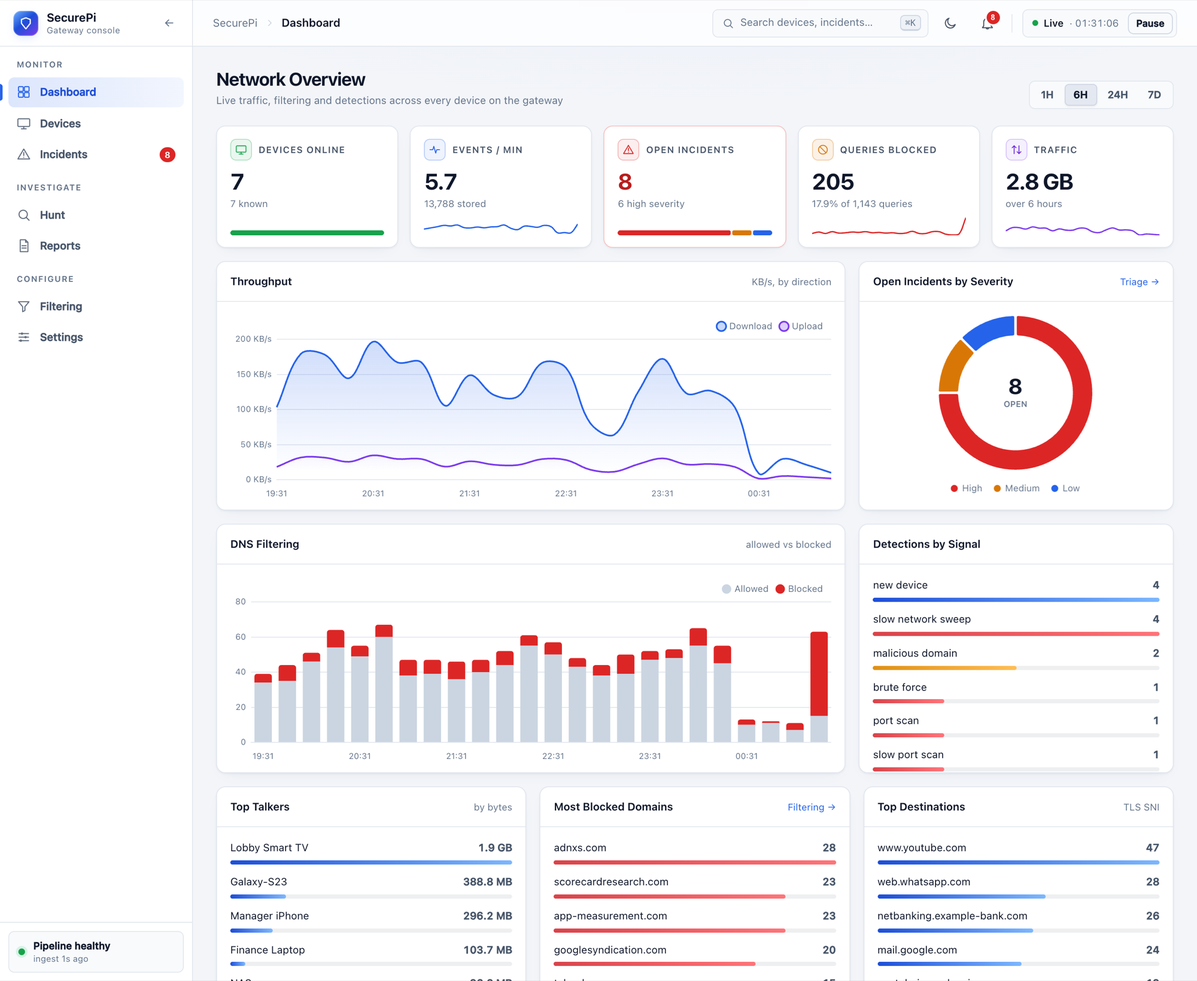
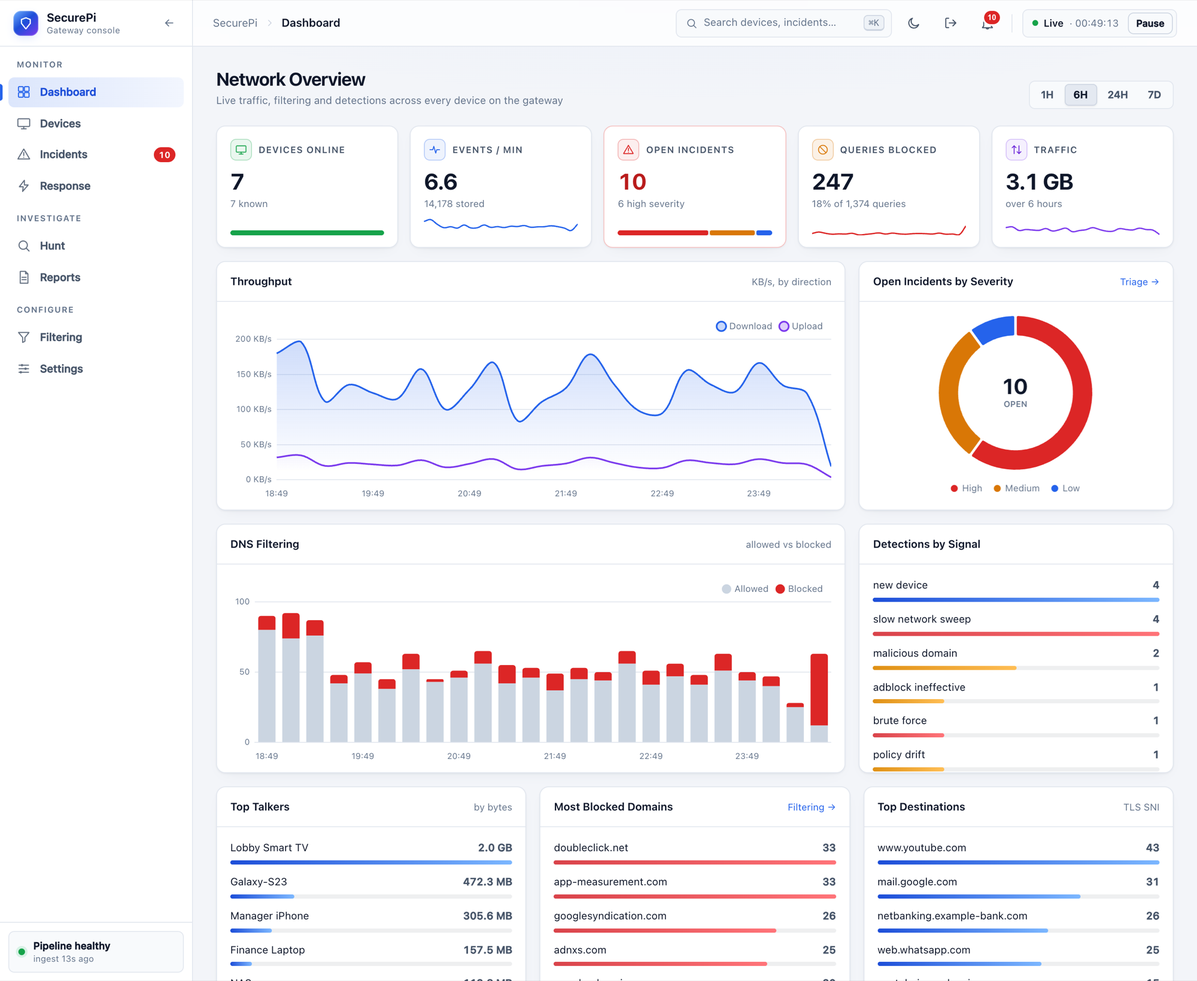
Stage 4 docs: live results, plan tracker, security review, README and screenshots
- EVALUATION-RESULTS-2.md Stage 4: every exit criterion checked live on
  the test harness, four real bugs found, and the DHCP-renewal check that
  still needs a real device on ap0.
- ENHANCEMENT-PLAN.md: 4.1-4.5 marked done, cut line B reached.
- SECURITY-REVIEW.md section 8: new helper verbs, stored channel secrets,
  outbound notifications, the lock, lockout safety - and world-readable
  database backups found and fixed (now 600).
- README: Stages 3 and 4 complete, 362 tests, Response page screenshot,
  all screenshots regenerated; shoot.js signs in through the login form.
- NEXT-SESSION.md: what Stage 4 added, the pending real-device check,
  Stage 7 next.

diff --git a/docs/demo/shoot.js b/docs/demo/shoot.js
@@ -17,7 +17,8 @@ const PAGES = [
   { name: 'dashboard', path: '/', wait: 3500, h: 1180 },
   { name: 'device-detail', path: '/devices/3', wait: 3500, h: 1000 },
   { name: 'incidents', path: '/incidents', wait: 2500, h: 760 },
-  { name: 'incident-detail', path: '/incidents/7', wait: 2500, h: 1000 },
+  { name: 'incident-detail', path: '/incidents/13', wait: 2500, h: 1000 },
+  { name: 'response', path: '/response', wait: 3000, h: 1120 },
   { name: 'filtering', path: '/filtering', wait: 3500, h: 900 },
   { name: 'settings', path: '/settings', wait: 2500, h: 700 },
   { name: 'mobile', path: '/', wait: 3500, mobile: true },
@@ -30,13 +31,19 @@ const PAGES = [
     headless: 'new',
     args: ['--hide-scrollbars', '--no-first-run', '--disable-features=BraveRewards'],
   });
+  // Sign in once through the real login form (step 3.1 replaced Basic
+  // Auth with a session cookie); every page below shares the session.
+  const login = await browser.newPage();
+  await login.goto(BASE + '/login', { waitUntil: 'networkidle0' });
+  await login.type('input[name=password]', 'demo');
+  await Promise.all([login.waitForNavigation({ waitUntil: 'networkidle0' }), login.click('button[type=submit]')]);
+  await login.close();
   for (const p of PAGES) {
     if (only.length && !only.includes(p.name)) continue;
     const page = await browser.newPage();
     // The console remembers its theme in localStorage, which every page in
     // this browser shares - so set it explicitly for each capture.
     await page.evaluateOnNewDocument(t => { try { localStorage.setItem('sp.theme', t); } catch (e) {} }, p.theme || 'dark');
-    await page.authenticate({ username: 'securepi', password: 'demo' });
     if (p.mobile) await page.setViewport({ width: 390, height: 844, deviceScaleFactor: 2, isMobile: true });
     else await page.setViewport({ width: 1440, height: p.h || 960, deviceScaleFactor: 2 });
     page.on('pageerror', e => console.log(p.name, 'PAGEERROR', e.message));

diff --git a/EVALUATION-RESULTS-2.md b/EVALUATION-RESULTS-2.md
@@ -559,3 +559,78 @@ A `dns_failopen_state` table (one row, `active`/`down_since`/`changed_at`) is th
 | Journal, `securepi-ingest`/`securepi-web`/`AdGuardHome`, across the whole test | Clean - only expected `AdGuard API unreachable ... falling back to file tailing` messages from `app/adguard.py`'s own pre-existing graceful-degradation path while AdGuard was deliberately down, no tracebacks |
 
 **Not fully verified, named rather than implied:** the redirect rule's effect on an actual `ap0`-connected client's DNS query was not tested with a real Wi-Fi device - `securepi status` showed 0 clients connected this session, and the project's own test harness (`ns_attacker`/`ns_victim`) is deliberately built on a separate `br-test` bridge, "entirely separate from the production ap0/hostapd network" (its own setup script's words), so it cannot generate `ap0`-sourced traffic to test this specific path. Rather than risk attaching a virtual interface to the live, production Wi-Fi AP interface to simulate one - a state-changing experiment on the one interface actual devices depend on, for a rule whose match criteria were independently confirmed correct by direct inspection - this was left as a real gap: the detection, activation, deactivation, incident, and console-banner machinery are all live-verified end to end; the very last hop (a real phone's DNS query actually being answered by 1.1.1.1 instead of timing out) is not. Confirmed instead, as strong indirect evidence: the rule's match/target syntax is byte-for-byte what a manual read of `nft`'s own documentation and the existing, already-proven `dpi-redirect` rule's shape would predict, and the two conditions (`daddr != 10.10.0.1` for the existing rules, `daddr 10.10.0.1` for this one) cannot both match the same packet.
+
+---
+
+## Stage 4
+
+Response and policy orchestration, built and verified 25–26 September 2026. Every check below ran on the live gateway against the test harness's `[TEST HARNESS] test-victim` device (id 5, MAC `02:00:00:00:00:12`, IP `10.10.0.221`), never a real person's device. The console's password is a one-way hash since step 3.1, so instead of signing in over HTTP these checks ran the real orchestrator code on the gateway **as the unprivileged `securepi-web` user** - the console's own privileges and code path, minus only the HTTP layer. That layer, and every new console page, was exercised end to end in a headless browser against the demo console (`docs/demo/serve.py`) instead: quarantine through the dialog, adding a webhook channel and sending a signed test, the profile editor, the Response page, dark and light themes, and phone width. No page errors.
+
+`make test`: **362** passing (was 303) - `tests/test_orchestrator.py` (39), `tests/test_notify.py` (14), six new helper-verb tests, plus the flaky-test fix below.
+
+### Four real bugs found, none guessed
+
+1. **AdGuard does not ignore a trailing `# comment` on a rule line.** Steps 5.2 and 5.5 stored a temporary allow's expiry and a vendor list's tag as `  # securepi-expires:…` / `  # securepi-tag:…` after the rule, on the assumption that AdGuard ignores it. Checked live with `check_host` on four rule shapes: every rule with the comment matched **nothing**, the same rules without it matched. So every temporary "unbreak" and every vendor-telemetry block applied since those steps was stored but never enforced. There were none live at the time. The orchestrator now writes plain rules and remembers which are its own in `orchestrator_state`. `migrate_legacy_rules()` converts any old commented line into a real policy and removes the broken line. The quoted form `$client='[TEST HARNESS] test-victim'` was confirmed to match (victim blocked, another client not).
+2. **Step 2.2's firewall change was never made permanent.** The live forward chain had no `log prefix` on the three DNS-bypass reject rules, and `/etc/nftables.conf` (what `nftables.service` loads at boot) was dated 13 September - the pre-2.2 file. Step 2.2 had copied the new file to `/opt/securepi/nftables.conf` and loaded it with `nft -f`, but never installed it at `/etc`, so the reboots on 20, 21 and 25 September each put the old rules back. From then on the nftables half of `dns_bypass` detection was silently off (the DoH-set refresh kept working - 709 entries). Fixed in the same install as step 4.2's new sets: the repo file is now both `/etc/nftables.conf` and `/opt/securepi/nftables.conf`, and they're identical.
+3. **A per-device pause didn't pause everything.** AdGuard's per-client `filtering_enabled=false` switches off blocklist matching only: with it off, a Kids device still had TikTok blocked (`FilteredBlockedService`) and Google rewritten (`FilteredSafeSearch`), while `doubleclick.net` resolved. A pause now clears the device's blocked services and safe search as well, and restores the whole profile when it ends.
+4. **Journal flooding from read-back.** The orchestrator reads three nftables sets every 15-second cycle through the helper, and each read went through `sudo` (a PAM session opened and closed) and wrote a helper log line - about 24 journal lines every 30 seconds. The engine already runs as root, so it now calls the helper directly, and the helper no longer logs the read-only `*-list` verbs (changes and rejected input are still logged). Measured after: 2 lines in 30 seconds.
+
+A pre-existing test flake was also fixed: four behavioural-baseline tests put their flow 60 s past the top of the hour, which is in the future during the first minute of every hour. The suite happened to run at 19:00:56 UTC, where the positive test failed and the three negative ones passed only because they saw nothing.
+
+### Deploy
+
+Backups first in `/opt/securepi-backups/`: the live ruleset (`nft list ruleset`), `/etc/nftables.conf`, the helper and a full `securepi.db` copy (SQLite online backup). Then `nft -c -f` on the new file, and a **dead-man switch** (`systemd-run --on-active=180` restoring the saved ruleset) before `nft -f /etc/nftables.conf`. The DoH set was refreshed straight after (the reload resets it to its seed). SSH, the console (HTTP 200) and DNS were re-checked from the Mac, then the switch was cancelled. Nothing was enrolled, quarantined or failed-open at the time, so the reload lost no runtime state. Then the helper, then `make deploy` of the expected 21 files, with `.bak-4-<timestamp>` copies of every changed one. Migrations ran on the ingest restart. Every existing device came through as `approved` (13 devices). The engine created `orchestrator.lock` on its first cycle, and that cycle read back all six enforcement points with no errors.
+
+### 4.1 — Policy orchestrator
+
+| Check | Result |
+|---|---|
+| Injected failure: AdGuard accepts a client update but doesn't keep it (Kids profile on the victim) | `PolicyApplyError: read-back did not match what was applied (Device filtering settings (AdGuard)) - rolled back, nothing was changed`. The client object was identical before and after. Policy recorded as `failed` |
+| Injected failure: the firewall accepts a quarantine add but doesn't keep it | Same shape of error for `Quarantine (firewall)`. `quarantine_mac` unchanged, no active quarantine policy left behind |
+| Real apply: block `sp-drift-test.example` for the victim only | Rule `\|\|sp-drift-test.example^$client='[TEST HARNESS] test-victim'` in AdGuard; `check_host` from the victim → `FilteredBlackList`, from another client → `NotFilteredNotFound` |
+| Out-of-band change: that rule deleted directly through AdGuard's own API | Restored within 1 s (the engine's next cycle happened to land right away). Audit row `policy.drift_corrected` - "1 rule(s) removed or edited in AdGuard: …". Platform incident #201 "A response policy was changed outside the console" |
+
+### 4.2 — Response actions
+
+| Check | Result |
+|---|---|
+| The new rules loaded | `iifname "ap0" ether saddr @quarantine_mac … drop` and `iifname "ap0" ip daddr @blocked_ip … drop` accepted by the kernel in the `inet` forward chain |
+| New helper verbs as `securepi-web` | Add/list/delete round trips for both sets. `quarantine-mac-add "…; flush ruleset"` → `REJECTED`, logged. Old verbs unaffected |
+| Timed quarantine (120 s) + block IP (120 s) | Kernel held both with 178 s left (policy + the 60 s backstop margin). Both policies `expired` by the orchestrator **11 s** after their time, both sets empty |
+| Auto-response on a synthetic scan → brute force → beacon chain on the victim | The real engine built campaign #3 "Discovery -> Credential Access -> Command and Control"; the orchestrator created `auto:campaign:3` (5 min, by `auto-response`) and raised incident "…test-victim was quarantined automatically". The kernel entry was extended to the longer of the two overlapping quarantines. The synthetic incidents and campaign were deleted afterwards, as in 2.8 |
+
+**Not verified live, named rather than implied:** "survives a DHCP renewal" needs a real device whose traffic arrives on `ap0` - the harness namespaces sit on `br-test`, which never touches the `iifname "ap0"` rules (the same limitation 3.6 and 5.7 record). No device was connected to SecurePi-Test this session. What *is* established: quarantine is keyed on MAC, the orchestrator follows a device's new MACs (unit-tested), and a new IP changes nothing about the set (unit-tested). Still to run: connect a phone, quarantine it for 15 min, force a renewal (toggle Wi-Fi), and confirm the `quarantined-mac` rule's counter rises and the phone stays offline until expiry.
+
+### 4.3 — Filtering profiles
+
+Kids on the victim, with its schedule edited for the test to block `group:gaming` from 00:38 (two minutes ahead):
+
+| Check | Result |
+|---|---|
+| Read back after apply | `filtering_enabled` true, safe search on, 13 blocked services, `steam` not yet among them |
+| `check_host` from the victim before the window | `amemv.com` (TikTok, always) → `FilteredBlockedService`; `www.google.com` → `FilteredSafeSearch`; `dota2.wmsj.cn` (a Steam service domain) → `NotFilteredNotFound` |
+| Window opens at 00:38:00 | `dota2.wmsj.cn` → `FilteredBlockedService` at **00:38:01**. Recorded as a planned change, not drift |
+| Pause for 60 s (after bug 3's fix) | During: all three domains `NotFilteredNotFound`. After: back to `FilteredBlackList` / `FilteredBlockedService` / `FilteredSafeSearch`, policy `expired` 13 s after its time |
+| Clean-up | Kids reset to its defaults; the victim's client back to standard (filtering on, no services, no safe search); AdGuard's custom rules back to the original three `$dnsrewrite` lines |
+
+### 4.4 — Device trust
+
+| Check | Result |
+|---|---|
+| Restrict unknown devices on; the registry creates a new device (synthetic harness MAC `02:00:00:00:4e:01`) | Created as `unknown` at 00:43:40 |
+| Restricted | MAC in `quarantine_mac` at 00:43:44 - within one engine cycle - by policy `source=trust`, "unknown device - restricted until approved" |
+| Approved | Out of the set on the same call; policy `removed`, "trust is now approved" |
+
+The device was kept, renamed `[TEST HARNESS] live 4.4 new device`, the same way step 6's evaluation devices were. "Restrict unknown devices" was switched back off.
+
+### 4.5 — Notifications
+
+A webhook channel on the gateway pointed at a small listener on the Mac (`192.168.2.1`, over the management cable - nothing sent to a third-party service).
+
+| Check | Result |
+|---|---|
+| Send test | Received, `X-SecurePi-Signature` HMAC-SHA256 verified against the body. The API showed the secret only as `••••-key` |
+| Three harness port scans 20 s apart | Incident #206 (port scan) grew to 80 events over several cycles and #207 (slow port scan) was raised. The Mac received **exactly two** webhooks, one per incident. `notifications` held one `sent` row each |
+| Clean-up | Channel removed (the listener was temporary); #201, #206, #207 resolved with a note |
+
+Telegram and SMTP were not sent live (no accounts were set up for this). Their exact requests are unit-tested (`RequestShapeTests`), and they share the same dispatch path the webhook check proved.

diff --git a/README.md b/README.md
@@ -11,7 +11,7 @@ Built as a final-year engineering project, deployed on real hardware, and measur
 
 ![Python](https://img.shields.io/badge/Python-3.12-3776AB?style=for-the-badge&logo=python&logoColor=white) ![FastAPI](https://img.shields.io/badge/FastAPI-console-009688?style=for-the-badge&logo=fastapi&logoColor=white) ![Suricata](https://img.shields.io/badge/Suricata-IDS-EF3B2D?style=for-the-badge) ![AdGuard Home](https://img.shields.io/badge/AdGuard_Home-DNS-68BC71?style=for-the-badge&logo=adguard&logoColor=white) ![mitmproxy](https://img.shields.io/badge/mitmproxy-selective_DPI-2B6CB0?style=for-the-badge) ![Ubuntu](https://img.shields.io/badge/Ubuntu-24.04_LTS-E95420?style=for-the-badge&logo=ubuntu&logoColor=white)
 
-![Tests](https://img.shields.io/badge/tests-206_passing-2fbf71?style=flat-square) ![Detection signals](https://img.shields.io/badge/detection_signals-14-4f9cf9?style=flat-square) ![ATT&CK](https://img.shields.io/badge/MITRE_ATT%26CK-mapped-7b5cf0?style=flat-square) ![Stages complete](https://img.shields.io/badge/roadmap-stages_0%C2%B71%C2%B72%C2%B75%C2%B76_complete-2fbf71?style=flat-square) ![No Docker](https://img.shields.io/badge/footprint-3.6_GiB_RAM,_no_Docker-8d99ad?style=flat-square)
+![Tests](https://img.shields.io/badge/tests-362_passing-2fbf71?style=flat-square) ![Detection signals](https://img.shields.io/badge/detection_signals-14-4f9cf9?style=flat-square) ![ATT&CK](https://img.shields.io/badge/MITRE_ATT%26CK-mapped-7b5cf0?style=flat-square) ![Stages complete](https://img.shields.io/badge/roadmap-stages_0%E2%80%936_complete-2fbf71?style=flat-square) ![No Docker](https://img.shields.io/badge/footprint-3.6_GiB_RAM,_no_Docker-8d99ad?style=flat-square)
 
 <br>
 
@@ -51,9 +51,10 @@ ATT&CK kill chain, so **15,884 raw events became 10 incidents** over a real
 
 ### Respond
 A **security operations console** with a live dashboard, an incident workbench
-(evidence chain, ATT&CK tags, playbooks, notes), threat hunting, per-device policy,
-one-click **quarantine**, explainable risk scores, a weekly PDF report and a full
-audit trail.
+(evidence chain, ATT&CK tags, playbooks, notes), threat hunting, timed **MAC-keyed
+quarantine**, IP and domain blocks from an incident, filtering profiles and schedules,
+device trust, notifications, and a **policy orchestrator** that verifies every change
+and puts back anything altered outside the console.
 
 </td>
 </tr>
@@ -75,7 +76,7 @@ audit trail.
 | **DNS rules enforced** | **656,735** across 5 curated lists | Live AdGuard Home |
 | **Memory under attack load** | **40%** of 3.6 GiB used, over 2 GiB free | [Evaluation §5](EVALUATION-RESULTS.md) |
 | **Throughput headroom** | Limited by the WAN (~30 Mbps). The inspection path itself ran at **39.9 Gbps** on virtual links | [Evaluation §6](EVALUATION-RESULTS.md) |
-| **Automated tests** | **206** unit tests (`make test`), all on synthetic data | [`tests/`](tests) |
+| **Automated tests** | **362** unit tests (`make test`), all on synthetic data | [`tests/`](tests) |
 
 ---
 
@@ -93,11 +94,16 @@ audit trail.
   <br><sub><b>Network overview</b>: KPI tiles with sparklines and meters, throughput, DNS allowed vs blocked, a severity donut, detections by signal, top talkers, blocked and contacted domains, live event stream, weekly activity heatmap and pipeline health.</sub>
 </p>
 
+<p align="center">
+  <img src="docs/assets/screenshots/response.png" alt="Response page" width="100%">
+</p>
+<p align="center"><sub><b>Response</b>: every policy the gateway is enforcing (quarantines, blocks, allows, profiles, pauses, inspection), where each came from, when it ends and when it was last read back from nftables or AdGuard. Beside it: the health of each enforcement point, the orchestrator's own activity (drift repaired, rollbacks, expiries), auto-response and device trust.</sub></p>
+
 <table>
 <tr>
 <td width="50%" valign="top">
 <img src="docs/assets/screenshots/incident-detail.png" alt="Incident workbench">
-<p align="center"><sub><b>Incident workbench</b>: a summary header with severity, status, MITRE ATT&CK tag and one-click triage and quarantine, then what was detected and why, a three-step playbook, related incidents and the evidence chain.</sub></p>
+<p align="center"><sub><b>Incident workbench</b>: a summary header with severity, status, MITRE ATT&CK tag and one-click triage and timed quarantine, then what was detected and why, a Respond card that blocks the domains and addresses in the evidence for one device or everyone, a three-step playbook and the evidence chain.</sub></p>
 </td>
 <td width="50%" valign="top">
 <img src="docs/assets/screenshots/incidents.png" alt="Incident queue">
@@ -107,7 +113,7 @@ audit trail.
 <tr>
 <td width="50%" valign="top">
 <img src="docs/assets/screenshots/device-detail.png" alt="Device detail">
-<p align="center"><sub><b>Device profile</b>: traffic history, identity kept across MAC randomization, fingerprint (type, vendor, OS and confidence), behavioural baseline, risk score, and a Controls panel for filtering, quarantine and Tier 2 enrollment.</sub></p>
+<p align="center"><sub><b>Device profile</b>: traffic history, identity kept across MAC randomization, fingerprint (type, vendor, OS and confidence), behavioural baseline, risk score, and Controls for trust, timed quarantine, filtering profile and pause, and Tier 2 enrollment, plus every policy active on the device.</sub></p>
 </td>
 <td width="50%" valign="top">
 <img src="docs/assets/screenshots/filtering.png" alt="Filtering">
@@ -326,7 +332,7 @@ sequenceDiagram
     end
     rect rgb(46, 17, 21)
     O->>D: review evidence chain + T1110 playbook
-    O->>N: Quarantine (add IP to set)
+    O->>N: Quarantine (add MAC to set, verified)
     N-->>A: forward chain drops all traffic
     O->>D: status investigating, note, audit_log
     end
@@ -599,7 +605,7 @@ devices on the network**. Full method and raw figures: [`EVALUATION-RESULTS.md`]
 > - **A real bug found during evaluation:** `new_device_signal` used a persisted watermark that meant new devices were almost never detected. It was fixed, verified live, and is now covered by regression tests.
 > - **\*Malicious-domain latency** was originally limited by AdGuard only flushing its on-disk query log every 1,000 queries. Ingest now polls AdGuard's API in real time instead (step 1.4).
 > - **One false positive** on a real phone: ordinary ad-SDK background traffic crossed a *raw-count* threshold. The signal now counts **distinct** domains (step 1.6).
-> - **Quarantine is keyed on IP**, so a DHCP renewal can move a quarantined device to a new address. Matching on MAC in PREROUTING is future work, noted in [`app/quarantine.py`](app/quarantine.py).
+> - **Two earlier features had silently stopped working, found while building Stage 4:** AdGuard does not ignore a trailing `# comment` on a rule line, so step 5.2's temporary allows and 5.5's vendor-telemetry rules never matched; and step 2.2's firewall change was never saved as the boot-time `/etc/nftables.conf`, so reboots dropped the DNS-bypass logging. Both fixed and verified live ([Evaluation 2 §Stage 4](EVALUATION-RESULTS-2.md)).
 
 ---
 
@@ -613,8 +619,8 @@ is in [`ENHANCEMENT-PLAN.md`](ENHANCEMENT-PLAN.md).
 | **0** | Housekeeping | ![Complete](https://img.shields.io/badge/-complete-2fbf71?style=flat-square) |
 | **1** | **Foundation and correctness**: test suite, retention, real-time ingest, audit coverage, detection-accuracy fixes, AP client isolation | ![Complete](https://img.shields.io/badge/-complete-2fbf71?style=flat-square) |
 | **2** | **Detection breadth**: network sweep, DNS bypass hardening, IDS alerts, threat intel, DNS tunnelling/DGA, C2 beaconing, suppression rules, campaigns | ![Complete](https://img.shields.io/badge/-complete-2fbf71?style=flat-square) |
-| **3** | Hardening and reliability: session auth, TLS, health supervision | ![Not started](https://img.shields.io/badge/-not_started-5a6679?style=flat-square) |
-| **4** | Response and orchestration: policy profiles, timed quarantine, notifications | ![Not started](https://img.shields.io/badge/-not_started-5a6679?style=flat-square) |
+| **3** | **Hardening and reliability**: session auth, TLS, privilege separation, security review, health supervision, fail-open DNS | ![Complete](https://img.shields.io/badge/-complete-2fbf71?style=flat-square) |
+| **4** | **Response and orchestration**: policy orchestrator with read-back and drift repair, MAC-keyed timed quarantine, IP/domain blocks, auto-response, filtering profiles and schedules, device trust, notifications | ![Complete](https://img.shields.io/badge/-complete-2fbf71?style=flat-square) |
 | **5** | **Ad blocking and privacy filtering**: telemetry, unbreak workflow, analytics, list health, Tier 2 lifecycle, privacy canary, pinning bypass, watchdog | ![Complete](https://img.shields.io/badge/-complete-2fbf71?style=flat-square) |
 | **6** | **Intelligence and console**: baselines, fingerprinting, settings, incident workbench, hunt, weekly report, responsive layout | ![Complete](https://img.shields.io/badge/-complete-2fbf71?style=flat-square) |
 | **7** | Evaluation 2.0: expanded benchmark battery, 7-day continuous run | ![Not started](https://img.shields.io/badge/-not_started-5a6679?style=flat-square) |
@@ -635,13 +641,15 @@ securepi-gateway/
 │   ├── registry.py           Device identity across MAC randomization
 │   ├── correlation.py        The six detection signals + incident dedup
 │   ├── engine.py             15-second loop: signals, rollups, retention
-│   ├── risk.py · playbooks.py · fingerprint.py · quarantine.py · retention.py
+│   ├── orchestrator.py       Desired state → nftables + AdGuard, verified, drift repaired
+│   ├── profiles.py · notify.py   Filtering profiles and schedules · incident notifications
+│   ├── risk.py · playbooks.py · fingerprint.py · firewall_sets.py · retention.py
 │   ├── webapp.py             FastAPI console (pages + JSON API)
 │   ├── schema.sql            The whole data model, with the reasoning in comments
 │   ├── templates/  static/   Jinja2 pages, vanilla JS, one stylesheet
 ├── dpi/                      Selective HTTPS inspection (mitmproxy addon, rules, canary)
 ├── gateway/                  nftables, hostapd, `securepi` CLI, evaluation harness
-├── tests/                    206 unit tests on synthetic fixtures (`make test`)
+├── tests/                    362 unit tests on synthetic fixtures (`make test`)
 └── docs/
     ├── assets/               Banner, social preview, screenshots
     └── demo/                 Synthetic-data console used for the screenshots
@@ -661,7 +669,7 @@ make test        # python3 -m unittest discover -s tests -p 'test_*.py' -v
 ```bash
 cd docs/demo
 python3 seed.py && python3 serve.py
-# open http://127.0.0.1:8765  (user: securepi, password: demo)
+# open http://127.0.0.1:8765  (password: demo)
 ```
 
 See [`docs/demo/README.md`](docs/demo/README.md) for regenerating the screenshots.

diff --git a/ENHANCEMENT-PLAN.md b/ENHANCEMENT-PLAN.md
@@ -317,13 +317,13 @@ New signals follow the `correlation.py` pattern (trailing-window SQL → `raise_
 
 | Step | Work | Origin | Exit criteria | Days |
 |---|---|---|---|---|
-| 4.1 | **Policy orchestrator (lite).** Desired state for quarantine, blocks, filtering profiles, **allow/deny rules and enrollment**. Apply → read back to verify → roll back on mismatch. Drift loop catches out-of-band changes | F§8.3, 15d cut | Injected failure rolls back. A change made directly in AdGuard is detected | 2 |
-| 4.2 | **Response actions:** MAC-keyed and timed quarantine, block domain/IP from an incident, opt-in auto-quarantine for high-confidence campaigns | F§9.4, G5 | Quarantine survives DHCP renewal and expires on its own | 1.5 |
-| 4.3 | **Filtering profiles.** Standard / Kids / IoT-restricted / Strict-privacy / Unrestricted → AdGuard persistent clients: list sets, **blocked services** (TikTok, gaming, social…), safe search, **blocked-services schedules** (e.g. no gaming 22:00–07:00), optional VPN/proxy bypass blocking. **Pause filtering 5/15/60 min** per device or network-wide, with auto-resume | F§9.3, Mkt | Profile assignment verified by read-back. A scheduled service block activates on time. Pause auto-expires | 2 |
-| 4.4 | **Device trust states** (approved / unknown / blocked; opt-in restriction for unknown devices with a lockout-safe fallback) | Mkt | New device restricted until approved | 1 |
-| 4.5 | **Notifications** (ntfy / Telegram / SMTP / webhook, severity threshold, rate limit, quiet hours, digest). Includes "ad-blocking degraded" alerts from Stage 5 once they exist | F§9.4, 15d cut | One notification per incident, not one per cycle | 1 |
+| 4.1 | **Policy orchestrator (lite) — done, 26 September 2026:** `app/orchestrator.py` + a `policies` table. Desired state for quarantine, IP/domain blocks, allow rules, filtering profiles, pauses, **enrollment** and vendor-telemetry lists. Apply → read back → roll back on mismatch; a reconcile every engine cycle expires policies, follows DHCP renewals and reverts drift, telling a reboot apart from drift by the kernel boot id. One cross-process `flock` so the console and engine never race. Enrollment is the deliberate exception: it is never re-added if something else turned it off (privacy canary, reboot, CLI). Found and fixed on the way: AdGuard does **not** ignore a trailing `# comment` on a rule, so 5.2's temporary allows and 5.5's vendor lists had never matched. Full detail: `EVALUATION-RESULTS-2.md` §4.1 | F§8.3, 15d cut | Injected failure rolls back. A change made directly in AdGuard is detected - **both confirmed live: two injected failures (AdGuard and nftables) rolled back with state unchanged; a managed rule deleted through AdGuard's API was restored within one cycle, with an audit row and a platform incident** | 2 |
+| 4.2 | **Response actions — done, 26 September 2026:** quarantine keyed on **MAC** (new `quarantine_mac` set, `ether saddr` in the forward chain) and optionally timed, with a kernel-side timeout one minute past the policy as a backstop; **block IP** (new `blocked_ip` set) and **block domain** from an incident's own evidence; opt-in **auto-quarantine** for campaigns spanning ≥ N tactics (off by default, acts once per campaign, only on campaigns after it's switched on). Six new validated helper verbs. Also found: step 2.2's firewall change had never been installed as `/etc/nftables.conf`, so every reboot since 14 Sep dropped the DNS-bypass log prefixes - fixed in the same install. Full detail: `EVALUATION-RESULTS-2.md` §4.2 | F§9.4, G5 | Quarantine survives DHCP renewal and expires on its own - **expiry confirmed live (ended 11 s after its time, both sets emptied); auto-quarantine confirmed live on a synthetic 3-tactic campaign; the DHCP-renewal half needs a real device on `ap0` - see §4.2** | 1.5 |
+| 4.3 | **Filtering profiles — done, 26 September 2026:** Standard / Kids / IoT restricted / Strict privacy / Unrestricted (`app/profiles.py`), built only from AdGuard's real per-client controls (filtering, safe search, blocked services) plus per-device `$client` rules - AdGuard has no per-client blocklist selection, so "list sets" per profile isn't possible and isn't pretended. Daily **blocked-service schedules** enforced by the orchestrator (AdGuard's own schedule pauses a client's whole services list at once and allows one range per day, so it can't express "TikTok always, games at night" or a daytime window). VPN/proxy bypass blocking is the `privacy` services group. **Pause 5/15/60 min** per device, or network-wide through AdGuard's own timed protection pause. Editable from the Filtering page. Full detail: `EVALUATION-RESULTS-2.md` §4.3 | F§9.3, Mkt | Profile assignment verified by read-back. A scheduled service block activates on time. Pause auto-expires - **all three confirmed live with AdGuard's own `check_host`: the scheduled gaming block started at 00:38:01 for a 00:38 window; the pause (after a live-found fix: `filtering_enabled=false` alone leaves blocked services and safe search on) ended 13 s after its time** | 2 |
+| 4.4 | **Device trust states — done, 26 September 2026:** approved / unknown / blocked on every device (existing devices grandfathered as approved on migration). Blocked = permanent quarantine; unknown = quarantined only while "restrict unknown devices" is on. Lockout-safe: switching it on approves every device already on the network first, and a restricted device keeps DHCP, DNS and the console (the rule only matches forwarded traffic), so it can always be approved from itself. Full detail: `EVALUATION-RESULTS-2.md` §4.4 | Mkt | New device restricted until approved - **confirmed live: a new registry device was restricted in the firewall 4 s after it appeared, and approving it lifted it on the same call** | 1 |
+| 4.5 | **Notifications — done, 26 September 2026:** `app/notify.py` - ntfy, Telegram, SMTP and webhook (HMAC-SHA256 signed); per-channel severity threshold; per-channel hourly rate limit; quiet hours (high still goes out); everything held goes into a digest, never dropped; failed sends retried. Title + severity + device + link by default, description only if a channel opts in. Secrets stored on the gateway, never returned by the API. Stage 5's degraded-ad-blocking alerts are incidents, so they're covered automatically. Full detail: `EVALUATION-RESULTS-2.md` §4.5 | F§9.4, 15d cut | One notification per incident, not one per cycle - **confirmed live: a harness scan extended its incident to 80 events across several cycles and the webhook (gateway → Mac over the management link) received it exactly once, signature verified** | 1 |
 
-> **Cut line B** (~6¼ weeks). Detect → respond loop closed, orchestrated, audited and hardened. Per-device filtering profiles and schedules exist.
+> **Cut line B** (~6¼ weeks) — **reached, 26 September 2026.** Detect → respond loop closed, orchestrated, audited and hardened. Per-device filtering profiles and schedules exist.
 
 ### Stage 5 — Ad blocking and privacy filtering (~10½ days + 1½ optional)
 
@@ -559,7 +559,7 @@ Never cut Stage 2, steps 5.2, 5.3, 5.7, or evaluation items 7.2–7.5.
 | 1 | **1.1 done, 1.2 done, 1.3 done, 1.4 done, 1.5 done, 1.6 done, 1.7 done, 1.8 done** (1.8 out of order - see note below) | Stage 1 complete |
 | 2 | **2.1–2.8 all done** | **Stage 2 complete** |
 | 3 | **3.1–3.6 all done** | **Stage 3 complete** |
-| 4 | 4.1 · 4.2 · 4.3 · 4.4 · 4.5 | Not started |
+| 4 | **4.1–4.5 all done** (4.2's DHCP-renewal check on a real device still to run - see `EVALUATION-RESULTS-2.md` §4.2) | **Stage 4 complete** |
 | 5 | **5.1 done, 5.2 done, 5.3 done, 5.4 done, 5.5 done, 5.6 done, 5.7 done, 5.8 done, 5.9 done, 5.10 done, 5.11 done (Path 1 only)** (out of order) | 5.1–5.11 done - 5.11 scoped to Path 1 (cosmetic CSS), Path 2 (scriptlets) deferred and recorded |
 | 6 | **6.1 done, 6.2 done, 6.3 done, 6.4 done, 6.5 done, 6.6 done, 6.7 done** | Stage 6 complete |
 | 7 | 7.0 – 7.9 | Not started |

diff --git a/NEXT-SESSION.md b/NEXT-SESSION.md
@@ -76,7 +76,7 @@ compact summary. Results from Stage 1 onward are in `EVALUATION-RESULTS-2.md`.
 | **1** | Foundation & correctness — test suite, retention, real-time ingest, audit coverage | **Complete** |
 | **2** | **Detection breadth** — scan family, DNS-bypass hardening, IDS alerts, threat intel, DNS tunnelling/DGA, C2 beaconing, suppression rules, campaign correlation + ATT&CK kill chain | **Complete** |
 | **3** | Hardening & reliability — session auth, TLS, privilege separation, security self-review, health supervision, fail-open DNS | **Complete** |
-| 4 | Response & orchestration — policy orchestrator, timed quarantine, filtering profiles, device trust, notifications | **In progress** — see below |
+| **4** | Response & orchestration — policy orchestrator, MAC-keyed timed quarantine, IP/domain blocks, auto-response, filtering profiles & schedules, device trust, notifications | **Complete** (one real-device check pending, see below) |
 | **5** | Ad blocking & privacy filtering (5.11 scoped to Path 1; Path 2 deferred with reasoning recorded) | **Complete** |
 | **6** | Intelligence & console — behavioural baselines, device fingerprinting, settings, incident workbench, hunt/explorer, weekly report, responsive layout | **Complete** |
 | 7 | Evaluation 2.0 — expanded benchmark battery | Not started |
@@ -228,13 +228,60 @@ emergency SSH procedure in `README.md`.
 
 Test suite: **303**, all passing.
 
-### Next: Stage 4 (Response & orchestration)
+### What Stage 4 added (25–26 September 2026)
 
-4.1 policy orchestrator (apply → read back → roll back, drift detection),
-4.2 MAC-keyed timed quarantine + block domain/IP from an incident, 4.3
-filtering profiles / blocked-service schedules / pause filtering, 4.4 device
-trust states, 4.5 notifications. The root helper from 3.3 gains a verb for
-IP blocking in 4.2.
+Everything the console enforces is now a row in the `policies` table, applied
+by `app/orchestrator.py`, read back from nftables/AdGuard, and rolled back if it
+didn't take. Every engine cycle it also expires timed policies, follows DHCP
+renewals, and repairs anything changed outside the console (audit row +
+`policy_drift` incident). The new **Response** page (sidebar) shows all of it.
+Full live results: `EVALUATION-RESULTS-2.md` §Stage 4.
+
+- **4.1 Orchestrator.** Console and engine share one `flock`
+  (`/opt/securepi/orchestrator.lock`). Tier 2 enrollment is the exception:
+  it's never re-added if something else turned it off.
+- **4.2 Response.** Quarantine is keyed on **MAC** (`inet filter
+  quarantine_mac`, kernel timeout as a backstop) and can be timed. Block
+  IP (`blocked_ip`) and block domain from an incident's Respond card.
+  Auto-quarantine for 3-tactic campaigns is **off** by default (Response page).
+- **4.3 Profiles.** Standard/Kids/IoT/Strict privacy/Unrestricted on each
+  device page, editable on Filtering → Profiles. Daily service-block
+  schedules, pause 5/15/60 min per device or for everyone.
+- **4.4 Trust.** Approved/unknown/blocked. "Restrict unknown devices" is
+  **off**. Turning it on approves the devices already present first.
+- **4.5 Notifications.** Settings → Notification Channels (ntfy,
+  Telegram, email, signed webhook). None configured on the gateway yet.
+
+**Things a future change needs to know:**
+- **Firewall file.** `/etc/nftables.conf` is now the repo's
+  `gateway/nftables.conf` (it had been stuck at the pre-2.2 version, so reboots
+  kept dropping the DNS-bypass log prefixes). Any future firewall change must
+  be installed there too, not only loaded with `nft -f`.
+- **AdGuard rules can't carry comments.** A trailing `# ...` makes the rule
+  match nothing. The orchestrator tracks its own rules in
+  `orchestrator_state`; don't tag rule text.
+- **Don't use `filtering_enabled` alone to "turn filtering off".** It
+  leaves blocked services and safe search applying.
+- **Backups of `securepi.db` must be mode 600.** They contain session
+  tokens and channel secrets; the old ones were 644 (fixed).
+- The console password is a one-way hash, so live checks run the orchestrator
+  as `sudo -u securepi-web python3 ...` on the gateway rather than over HTTP.
+
+**Pending: one real-device check (4.2).** "Quarantine survives a DHCP renewal"
+needs a phone on SecurePi-Test (the harness can't reach `ap0`). Connect it,
+quarantine it for 15 min from its device page, toggle its Wi-Fi off and on,
+and confirm it stays offline, then comes back on its own when the time is up
+(`sudo nft list chain inet filter forward` - the `quarantined-mac` counter
+should rise).
+
+Test suite: **362**, all passing.
+
+### Next: Stage 7 (Evaluation 2.0)
+
+7-day continuous run, PCAP replay, detection battery with precision/recall,
+ad-blocking benchmark, chaos tests, performance, usability study. Stage 4's
+features are now in scope for 7.7's chaos tests (orchestrator drift repair,
+fail-open with policies active).
 
 ### Known real bugs found and fixed (for context, not action)
 

diff --git a/docs/SECURITY-REVIEW.md b/docs/SECURITY-REVIEW.md
@@ -269,6 +269,68 @@ uplink (`wlp2s0`, the home Wi-Fi) versus the isolated project LAN (`ap0`,
   `systemd-resolved`'s stub listeners on loopback) was already correctly
   scoped to an internal interface or loopback — checked, not assumed.
 
+## 8. Stage 4 additions (26 September 2026)
+
+Stage 4 added new privileged operations, outbound network connections and
+stored secrets, so each was reviewed on the same terms as sections 1-7.
+
+**Privileged surface.** The helper gained six verbs (`quarantine-mac-add/
+-delete/-list`, `blocked-ip-add/-delete/-list`). Each hardcodes its family,
+table and set, as before. A MAC must match `^[0-9a-f]{2}(:[0-9a-f]{2}){5}$`,
+an IP must parse as IPv4, and a timeout must be 60 s to 30 days. Tested with
+injection-shaped input (`"aa:bb:…; flush ruleset"`, `"1.2.3.4 }"`) on the
+Mac and live, where the input was rejected and logged. The orchestrator
+also refuses to block LAN, loopback, link-local, multicast and reserved
+addresses before the helper is ever called. The sudoers rule is unchanged:
+still the one program.
+
+**Stored secrets.** Notification channel secrets (a Telegram bot token, an
+SMTP password, a webhook signing key) are in the `notification_channels`
+table. The API never returns them: `notify.masked_config()` replaces each
+secret field with `••••` plus at most its last four characters, and it is
+the only form a channel leaves the gateway in. Adding a channel writes an
+audit row with its type and name only, never its settings. The database is
+`root:securepi` 664, the same trust boundary as the password files in
+`/etc/securepi`.
+
+**Backups of that database were world-readable - fixed.** Every
+`securepi.db` copy taken before a deploy (eleven of them, in `/opt/securepi`
+and the new `/opt/securepi-backups`) was mode 644. Copies from step 3.1 on
+include live session tokens, and all of them include the network's device
+and DNS history. Any local account could read them. All are now 600 and
+`/opt/securepi-backups` is 700; a non-root read was confirmed refused.
+Future backups should keep the same modes (`sudo install -m 600` or a
+`chmod` straight after the copy).
+
+**Outbound connections.** Notifications are the first feature that sends
+data off the gateway on an operator's behalf. HTTPS certificates are
+verified (`ssl.create_default_context()`). A channel only sends the
+incident title, severity, device name and a console link unless its
+"include details" option is on. Webhook bodies can be signed
+(HMAC-SHA256, `X-SecurePi-Signature`). A channel URL can point anywhere,
+including the gateway itself or the LAN. That is a request-forgery path,
+but only for someone already signed in to the console, who can do far more
+directly. It is recorded here rather than restricted.
+
+**XSS in the new console code.** Every server-supplied string in the new
+pages goes through `esc()`, including policy reasons, device names, channel
+summaries and audit details. Raw HTML is only ever built from constants in
+`app.js`. The new dialog replaces `window.prompt()`, which had no XSS
+exposure but blocked the page.
+
+**Races.** The console and the engine both change the same nftables sets
+and AdGuard rule list, and they're serialised by an exclusive `flock` on
+`/opt/securepi/orchestrator.lock`. Without it, a reconcile could remove a
+quarantine the console had applied a moment earlier. `securepi-web` could
+hold the lock indefinitely and stall the engine's reconcile, but that
+process already has every privilege it would take to cause the same harm
+another way.
+
+**Lockout.** "Restrict unknown devices" and "Block" only drop *forwarded*
+traffic from `ap0`. The input chain (DHCP, DNS, the console) and the
+management link are untouched, so no trust setting can lock the operator
+out of the console.
+
 ## Not fixed, named rather than implied
 
 - **The framework-level `pip-audit` findings in §6** (fastapi, starlette,
